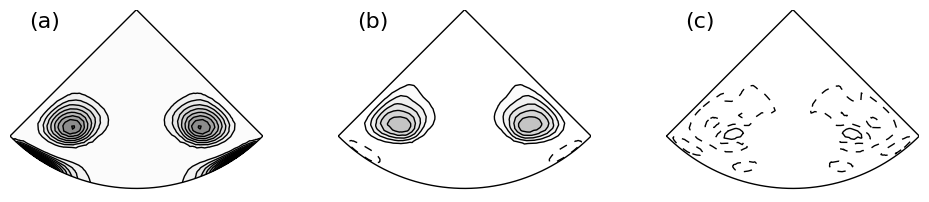
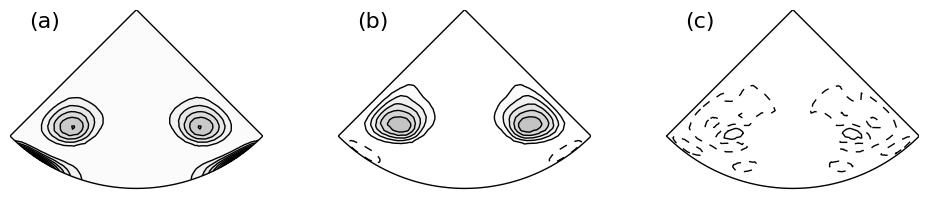
pipeTW seq added to ch4

Changed region(s): [[0.0, 0.4455, 0.1249, 0.8911], [0.1561, 0.4455, 0.2809, 0.8911]]

diff --git a/ch4_other.tex b/ch4_other.tex
@@ -151,16 +151,66 @@ Je = \pd{F}{x} e = \pd{F}{e}.
 
 \section{Семейство трехмерных бегущих волн в течении Гагена-Пуазейля}
 
-Решение уравнений Навье-Стокса, соответствующее модельном порыву, является предельным состоянием решения, эволюционирующего на сепаратрисе, отделяющей области притяжения решений, соответствующих ламинарному и турбулентному режимам течения. В разделе \ref{pipe_tw_seq} показано, что при тех же условиях и дополнительном условии $5R$ периодичности вдоль потока предельное решение на сепаратрисе имеет еще более простую динамику, а именно, имеет вид трехмерной бегущей волны. 
-
+Решение уравнений Навье-Стокса, соответствующее модельном порыву, является предельным состоянием решения, эволюционирующего на сепаратрисе, отделяющей области притяжения решений, соответствующих ламинарному и турбулентному режимам течения. При дополнительном условии $5R$ периодичности вдоль потока предельное решение на сепаратрисе имеет еще более простое предельное поведение, а именно, имеет вид бегущей волны. Как показано в разделе \ref{pipe_tw_seq}, это решение в более простой форме воспроизводит все основные элементы цикла поддержания колебаний, выделенные при изучении модельного порыва. Среднее поле скорости бегущей волны не зависит от продольной координаты, благодаря чему полосы повышенной и пониженной скорости и продольные вихри в бегущей волне имеют бесконечную протяженность, в то время как в модельном порыве их протяженность ограничена. 
 
 \begin{figure}
 \center{\includegraphics[width=0.9\linewidth]{pipeTW-contin.png}}
-\caption{ПРодолжнеие} 
+\caption{Продолжение решения уравнений Навье-Стокса, имеющего вид бегущей волны, по числу Рейнольдса: (а) зависимость фазовой скорости и (b) амплитуды трехмерной составляющей движения от числа Рейнольдса. Точка соответствует исходному решению, найденному на сепаратрисе.} 
 \label{pipeTW_contin_pic}
 \end{figure}
 
+Продолжение по числу Рейнольдса решения, имеющего вид бегущей волны, найденного на сепаратрисе, позволило получить новые решения в виде бегущей волны. На рис. \ref{pipeTW_contin_pic} приведены значения фазовой скорости $c_\mathrm{tw}$ и средней по объему трубы амплитуды трехмерной составляющей движения $\V_\mathrm{3D} = \v - \overline{\v}^{x,\theta}$. Как и условно периодические решения, порожденные модельным порывом, решений в виде бегущей волны принадлежат однопараметрическому множеству. Семейство решений, порожденное бегущей волной, найденной на сепаратрисе, возникает в результате бифуркации при $\Re \approx 1200$. При меньших числах Рейнольдса решений из этого семейства не существует. При больших числах Рейнольдса существует две ветви решений. В точке бифуркации производная по числу Рейнольдса от характеристик решения обращается в бесконечность, что не позволяет перейти с одной ветви решения на другую, продлевая решение по числу Рейнольдса. Для того, чтобы перейти с одной ветви решения на другу, вблизи от точки бифуркации продолжение решения было выполнено по фазовой скорости $c_\mathrm{tw}$. Число Рейнольдса, при этом, было включено в число определяемых параметров. Ветвь, которой принадлежит исходное решение, найденное на сепаратрисе, принято называть нижней, так как для нее характерна меньшая интенсивность колебаний (см. рис. \ref{pipeTW_contin_pic}(b)). Решения с верхней ветви по амплитуде колебаний оказываются ближе к турбулентному течения, что делает их привлекательными для исследования. 
 
+\begin{figure}
+\center{\includegraphics[width=1\linewidth]{pipeTW-1700ub-means.png}}
+\center{\includegraphics[width=1\linewidth]{pipeTW-1700ub-puls.png}}
+\caption{Поле скорости решения, имеющего вид бегущей волны, принадлежащего верней ветви, $\Re = 1700$: (a) --- изолинии средней продольной скорости, (b) --- средняя поперечная скорость, (c) --- линии уровня амплитуды пульсаций, (d) --- изолинии продольной компоненты пульсационной составляющей движения в сечении $\theta = 0$ (продольный период $L_x = 5$). Сплошные линии --- положительные значения, прерывистые -- отрицательным. } 
+\label{pipeTWub_means_pic}
+\end{figure}
+
+Исходная сетка, на которой были найдены решения, содержит $32 \times 32 \times 32$ ячеек в продольном, радиальном и угловом направлениях. Протяженность расчетной области составляет $L_x = 5R$. Для того, чтобы установить влияние расчетной сетки на результат, решения были пересчитаны на более подробной сетке, содержащей вдвое большее число ячеек в каждом направлении ($64 \times 64 \times 64$). В радиальном направлении введено растяжение сетки таким образом, что высота ячейки вблизи сетки в 4 раза меньше, чем вблизи оси трубы. Таким образом, разрешение сеток, на которых получены решения в виде бегущих волн, точно совпадает с разрешением сток, на которых получен модельный порыв (см. раздел \ref{edge_seq}). Для адекватного воспроизведения решений с верхней ветви требуются более подробные расчетные сетки, чем для решений с нижней ветви. Расчеты, проведенные на двух расчетных сетках, показали, что до $\Re \approx 2000$ решение на верхней ветви воспроизводится адекватно. Также, как при исследовании верхней ветви семейства решений, порожденного модельным порывом, характеристики верхней ветви решений, имеющих вид бегущей волны, будут представлены на примере решения с $\Re = 1700$. Это решение оказывается устойчивым (при наложенных дополнительных условиях симметрии \eqref{sym_eq}, \eqref{per_eq}, \eqref{bc2_eq}). Его фазовая скорость равна $c_\mathrm{tw,ub} = 0.66U$, где $U$ --- удвоенная расходная скорость, совпадающая с максимальной скоростью в течения Пуазейля с аналогичным расходом. 
+
+\begin{figure}
+\center{\includegraphics[width=0.33\linewidth]{pipeTW-1700ub-lin-map.png} \includegraphics[width=0.6\linewidth]{pipeTW-1700ub-lin-puls.png}}
+\caption{Наиболее быстро растущее собственное решение линейной задачи устойчивости поля скорости $\V_\mathrm{tw,ub}$: (a) --- линии уровня амплитуды колебаний; (b) --- изолинии продольной компоненты скорости в сечении $\theta = 0$. Сплошные линии --- положительные значения, прерывистые --- отрицательные.}
+\label{pipeTWub_lin_pic}
+\end{figure}
+
+Также, как при анализе бегущей волны, найденной на сепаратрисе, выполненном в разделе \ref{pipe_tw_seq}, разделим поле скорости выбранной для анализа бегущей волны $\v_\mathrm{tw,ub}$ на среднюю $\V_\mathrm{tw,ub} = \overline{\v_\mathrm{tw,ub}}^x$ и пульсационную $\v'_\mathrm{tw,ub} = \v_\mathrm{tw,ub} - \V_\mathrm{tw,ub}$ составляющие путем осреднения в продольном направлении $x$, обозначенного чертой над выражением с соответствующим индексом.  Для бегущей волны осреднение в продольном направлении эквивалентно осреднению по времени (при условии, что оно выполнено в системе отсчета, скорость перемещения которой не совпадает с фазовой скоростью волны). Среднее поле скорости зависит только от двух координат, $r$ и $\theta$, что делает его удобным объектом для исследования. 
+
+Также, как и в других исследованных решениях, среднее поле скорости включает полосы повышенной и пониженной скорости, вытянутые вдоль потока. Распределение средней продольной скорости приведено на рис. \eqref{pipeTWub_means_pic}(а). В центральной части трубы, где медленная жидкость проникает ближе к центру трубы, находится полоса пониженной скорости. При большем и меньшем значении $\theta$ находятся полосы повышенной скорости. Отметим, что скорости жидкости в области расположения полос повышенной скорости оказывается даже выше, чем на оси трубы. Существование поло поддерживает слабое движение жидкости в нормальной к основному потоку плоскости. Распределение средней поперечной скорости, приведенное на рис. \ref{pipeTWub_means_pic}(b), соответствует наличию продольных вихрей, поддерживающих существование полос. Там, где медленная жидкость движется от стенки, находятся полосы пониженной скорости. Там, где жидкость движется ближе к стенке --- полосы повышенной скорости. 
+
+\begin{figure}
+\center{\includegraphics[width=1\linewidth]{pipeTW-1700ub-OXgen.png}}
+\caption{Образование продольных вихрей в решении, имеющем вид бегущей волны, принадлежащем верхней ветви, $\Re = 1700$: значение $\Omega_x^2$ (a), вклад в генерацию $\Omega_x^2$ со стороны слагаемых, соответствующих \eqref{OXgen_terms}, (b) и другим слагаемым в правой части \eqref{OX_eq} (с). Сплошные линии --- положительные значения, прерывистые --- отрицательные.}
+\label{pipeTWub_OXgen_pic}
+\end{figure}
+
+Пульсации оказываются сосредоточены между полосами повышенной и пониженной скорости и, в несколько меньшей степени, в области расположения полос повышенной скорости (см. рис. \ref{pipeTWub_means_pic}(c)). Отметим, что распределения средней скорости и пульсаций в этом случае значительно отличаются от аналогичных распределений для решения с верхней ветви семейства решений, порожденного модельным порывом (см. рис. \ref{local_ub_means_pic}). В решении, порожденном модельным порывом, скорость на оси трубы оказывается выше, чем в полосах повышенной скорости, пульсации достигают максимума между полосами повышенной скорости и осью трубы, интенсивность пульсаций между полосами разных знаков оказывается значительно ниже. По-видимому, это объясняется наличием продольной неоднородность в пространственно-локализованном решении. Мы полагаем, что механизм образования пульсаций в случае рассматриваемой бегущей волны также, как и в других случаях, является линейным. Хотя среднее поле скорости $\V_\mathrm{tw,ub}$ оказывается линейно устойчивым, собственная функция, соответствующая наиболее медленно затухающему собственному решению, $\v'_1$ повторяет форму пульсационной составляющей движения и скорость ее перемещения вдоль трубы. Амплитуда колебаний $\v'_1$ приведена на рис. \ref{pipeTWub_lin_pic}(a). Как и в пульсационной составляющей движения, колебания $\v'_1$ оказываются сосредоточены между полосами повышенной и пониженной скорости, а также, от части, в области расположения полос повышенной скорости. Распределения мгновенной продольной скорости, приведенные для пульсационной составляющей движения $\v'_\mathrm{tw,ub}$ на рис. \ref{pipeTWub_means_pic}(d), а для $\v'_1$ на рис. \ref{pipeTWub_lin_pic}(b), также согласуются друг с другом. Фазовая скорость $\v'_1$ равна $c_1 = 0.63U$, декремент затухания $\lambda_1 = -0.0085U/R$. Линейная устойчивость среднего течения не противоречит тому, что механизм передачи энергии в пульсационную составляющую движения является линейный. Амплитуда колебаний в рассматриваемом решении оказывается достаточно велика и достигает $0.15U$. Полосы повышенной и пониженной скорости в решении смещаются в боковом направлении с достаточно существенной амплитудой, в результате чего среднее течение недостаточно точно воспроизводит форму полос --- угловые градиенты продольной скорости в среднем течении оказываются ниже, чем в неосредненном поле скорости $\v_\mathrm{tw,ub}$, и скорость роста возмущений на среднем поле скорости может оказаться ниже, чем на неосредненном.
+
+\begin{figure}
+\center{\includegraphics[width=0.5\linewidth]{pipeTW-1700ub-corrA.png}\includegraphics[width=0.5\linewidth]{pipeTW-1700ub-corrB.png}}
+\caption{Значения $\d v_x' /\d x$ (кривая 1) и $\omega_x'$ (кривая 2) на прямой, где $\Omega_x$ достигает максимума, $r = 0.75, \theta = \pi/10$: (a) --- для пульсаций, полученных в линейном приближении; (b) --- для пульсационной составляющей движения. }
+\label{pipeTWub_corr_pic}
+\end{figure}
+
+Существование продольных вихрей, формирующих полосы повышенной и пониженной скорости, объясняется наличием пульсаций. Продольным вихрям, имеющих различные направления вращения, соответствуют области концентрации положительной и отрицательной средней продольной завихренности $\Omega_x$, $(\Omega_x, \Omega_r, \Omega_\theta) = \mathrm{rot} \V_\mathrm{tw,ub}$. Как и в других исследованных решениях, в рассматриваемом решении в уравнении баланса средней продольной завихренности \eqref{OX1_eq} за образование продольных вихрей ответственны слагаемые \eqref{OXgen_terms}, описывающие нелинейное взаимодействие пульсаций продольной скорости и пульсаций продольной завихренности. Работать удобнее с уравнением баланса квадрата средней продольной завихренности $\Omega_x^2$, получаемым умножением уравнения \eqref{OX1_eq} на $2\Omega_x$. Положительное значение источниковых членов в этом уравнении говорит об их положительном вкладе, а отрицательное значение --- об отрицательном. Значение слагаемых \eqref{OXgen_terms}, умноженных на $2\Omega_x$, приведено на рис. \ref{pipeTWub_OXgen_pic}(b). Значение суммы других слагаемых в правой части \eqref{OX1_eq}, умноженных на $2\Omega_x$, приведено на рис. \ref{pipeTWub_OXgen_pic}(c). Слагаемые \eqref{OXgen_terms} определяет форму поля $\Omega_x$ в области расположения продольных вихрей (см. рис. \ref{pipeTWub_OXgen_pic}(a)), другие источниковые слагаемые дают преимущественно отрицательный вклад в подержание продольной завихренности и по амплитуде значительно уступает выделенному слагаемому. Таким образом, нет сомнений, что и в этом случае за образование продольных вихрей отвечают слагаемые \eqref{OXgen_terms}. 
+
+\begin{figure}[h]
+\center{\includegraphics[width=0.66\linewidth]{pipeTW-1700ub-ox1gen.png}}
+\caption{Образование пульсаций продольной завихренности в решении, имеющем вид бегущей волны, принадлежащем верхней ветви, $\Re = 1700$: средний квадрат пульсаций продольной завихренности $\overline{\omega'_x \omega'_x }^x$ (а), вклад в производство $\overline{\omega'_x \omega'_x }^x$ слагаемых, соответствующих \eqref{ox1gen_add_terms}, (b), слагаемого, соответствующего \eqref{ox1gen_main_terms}, (c) и слагаемого, соответствующего сумме остальных слагаемых в правой части \eqref{ox2_eq} (d). Сплошные линии --- положительные значения, прерывистые --- отрицательные.}
+\label{pipeTWub_ox1gen_pic}
+\end{figure}
+
+Пульсации, полученные в рамках линеаризованных уравнений, $\v_1$ также воспроизводят описанный механизм образования продольных вихрей, но имеют более простую форму (их поле скорости меняется вдоль трубы по гармоническому закону), что делает их привлекательным объектом для анализа. Между собой слагаемые \eqref{OXgen_terms} оказываются равны в силу периодичности поля скорости вдоль потока, поэтому мы ограничимся анализом второго из слагаемых. Отличие от нуля этого слагаемого говорит о наличие корреляции между пульсациями продольной скорости и пульсациями продольной завихренности, причем эта корреляция такова, что в области расположения положительного вихря $\omega'_x$ и ${\partial v'_x}/{\partial x}$ имеют положительную корреляцию, а в области расположения отрицательного вихря --- отрицательную, что позволяет поддерживать существование этих вихрей. Для того, чтобы продемонстрировать наличие корреляции, на рис. \ref{pipeTWub_corr_pic} приведено значение $\omega'_x$ и ${\partial v'_x}/{\partial x}$ на прямой, параллельной оси $x$, проходящей через центр положительного вихря ($\Omega_x$ достигает максимума), $r = 0.75, \theta = \pi/10$. На рисунке (a) приведены значения для пульсаций, полученных в рамках линеаризованных уравнений, $\v'_1$. Кривые меняются вдоль потока по гармоническому закону и оказываются в фазе друг с другом, что обеспечивает наибольшую эффективность производства $\Omega_x$. На рисунке (b) приведены аналогичные значения для пульсационной составляющей движения $\v'_\mathrm{tw,ub}$. Хотя графики имеют значительно более сложную форму, чем в линейном случае или в случае аналогичного решения с нижней ветви (см. рис. \ref{OXgen_corr_pic}), они также согласованы друг с другом (кривые достигают наибольшего и наименьшего значения в близких точках). Наличие корреляции объясняется механизмом образования пульсаций продольной завихренности $\omega'_x$, согласующемся в рассматриваемом решении и в других исследованных решениях (см. раздел \ref{ox1gen_seq}). 
+
+В уравнении \eqref{ox2_eq} за образование пульсаций продольной завихренности $\omega'_x$ в области расположения продольных вихрей ответственно слагаемое \eqref{ox1gen_main_terms}, отписывающее эффект сжатия и растяжения существующих в потоке вихревых трубок, вызванного пульсациями продольной скорости. Для того, чтобы продемонстрировать вклад слагаемого \eqref{ox1gen_main_terms} в образование $\omega'_x$, обратимся к уравнению баланса среднего квадрата пульсаций продольной завихренности $\overline{\omega'_x\omega'_x}^x$, полученного умножением \eqref{ox2_eq} на $2\omega'_x$ с последующим определением по $x$. Слагаемые в этом уравнении зависят только от $r$ и $\theta$, положительное значение источниковых членов в этом уравнении говорит об их содействии образованию $\omega'_x$, а отрицательное --- о противодействии. На рис. \ref{pipeTWub_ox1gen_pic} приведено значение $\overline{\omega'_x\omega'_x}$ (a) и вклада в его образование со стороны слагаемых, соответствующих \eqref{ox1gen_add_terms}, (b), слагаемого, соответствующего \eqref{ox1gen_main_terms}, (c) и слагаемых, соответствующих сумме других слагаемых в правой части уравнения \eqref{ox2_eq}. Наибольший вклад в образование $\omega'_x$ дают слагаемые \eqref{ox1gen_add_terms}, отвечающие за поворот нормальных к стенке вихревых нитей на фоне нормального к стенке градиента скорости. Хотя эти слагаемые имеют существенное значение вблизи области расположения продольных вихрей, они не участвуют в поддержании продольных вихрей, так как пульсации, формируемые этими слагаемыми, согласованы с пульсациями продольной скорости таким образом, что их нелинейное взаимодействие отсутствует (см. раздел \ref{ox1gen_seq}). Образование пульсаций $\omega'_x$ в области расположения продольных вихрей связано со слагаемым \eqref{ox1gen_main_terms}. Именно это слагаемое обеспечивает необходимую для поддержания продольных вихрей согласованность между пульсациями продольной скорости и пульсациями продольной завихренности. Другие источниковые слагаемые в области расположения продольных вихрей имеют как положительное, так и отрицательное значение, и существенного влияния на образование $\omega'_x$ в интересующей нас области не оказывают. 
+
+Таким образом, для рассмотренного решения, имеющего вид бегущей волны, принадлежащего верхней ветви, механизм образования колебаний оказывается таким же, как и для других исследованных решений за тем исключением, что среднее поле скорости оказывается линейно устойчивым. Тем не менее, эта особенность решения не говорит о том, что механизм передачи энергии в пульсационную составляющую движения отличается от линейного. 
+
+
+
+\begin{comment}
 Re2200ub:
 lin: cf = 0.44473618074359494, lambda = -0.0085
 vwz: cf = 0.6470799307435949, lambda = -0.021
@@ -169,7 +219,7 @@ Re1700ub:
 lin: cf = 0.633021694959945, lambda = -0.02
 vwz: cf = 0.651179838899339, lambda = -0.028 (unsym)
         Осесимметричное возмущение, lambda = -0.028
-
+\end{comment}
 
 \section{Семейство решений уравнений Навье-Стокса в виде бегущих волн в плоском течении Пуазейля}
 

diff --git a/ch3_oxgen.tex b/ch3_oxgen.tex
@@ -4,11 +4,11 @@
 
 Результаты исследования модельного порыва могут расширить существующие представления о механизме регенерации пристенных структур. В данной главе описан механизм поддержания стационарных продольных вихрей, формирующих полосы в модельном порыве. Также в главе описано решение уравнений Навье-Стокса, имеющее вид бегущей волны, и механизм поддержания продольных вихрей в этом решении. Решение, имеющее вид бегущей волны, периодично вдоль потока и стационарно в сопутствующей системе отсчета. Это решение является предельным состоянием решения, эволюционирующего на сепаратрисе, найденного при тех же условиях симметрии, что и модельный порыв, но в непротяженной расчетной области. Обнаружено, что имея более простое временное поведение, чем модельный порыв, это решение воспроизводит аналогичный механизм самоподдержания. Описание механизма поддержания продольных вихрей на примере решения типа бегущей волны имеет более простой вид и позволяет более строго продемонстрировать особенности движения, обеспечивающие работу этого механизма. 
 
-Основные результаты, представленные в главе, опубликованы в статье автора диссертации \cite{MZG2017, KMU17, KMU16}. 
+Основные результаты, представленные в главе, опубликованы в статье автора диссертации \cite{MZG2017, KMU17}. 
 
 
 
-\section{Получение решения в виде бегущей волны и его свойства}
+\section{Получение решения в виде бегущей волны и его свойства} \label{pipe_tw_seq}
 
 Пульсационная составляющая движения модельного порыва напоминает бегущую волну. Длину этой волны можно оценить в $5$ радиусов трубы $R$. Соответствующее модельному порыву решение уравнений Навье-Стокса является предельным состоянием решения, эволюционирующего на сепаратрисе, отделяющей области притяжения решений, соответствующих ламинарному и турбулентному режимам течения. Модельный порыв найден при $\Re = 2200$ при дополнительных условиях \eqref{sym_eq}, \eqref{per_eq} в достаточно протяженной расчетной области. Обнаружено, что при дополнительном  условии $5R$-периодичности вдоль трубы решение, эволюционирующее на сепаратрисе, имеет более простое предельное поведение. Предельное решение имеет вид бегущей волны --- оно стационарно в сопутствующей системе отсчета. Решение, имеющее вид бегущей волны, повторяет особенности бегущей волны, наблюдаемой в модельном порыве, и воспроизводит общий с модельным порывом механизм самоподдержания. Фазовая скорость найденной бегущей волны $c_{tw} = 0.77U$ (<<tw>> --- <<traveling wave>>) и близка к фазовой скорости бегущей волны в модельном порыве. Метод поиска решения на сепаратрисе описан в разделе \ref{edge_seq}. 
 
@@ -100,7 +100,7 @@
 Сумма \eqref{OXgen_iterms_sum} не зависит от $x$, что, в частности, позволяет упустить знак осреднения вдоль трубы. Эффективность производства  $\Omega_x$ определяется разностью фаз $\psi - \phi$. В области положительного вихря, при $a,b > 0$, наибольшее значение как первого, так и второго слагаемого достигается при $\psi - \phi = \pi/2$. В этом случае $\d \omega'_x/\d x$ и $v'_x$ положительно коррелированы, в то время как $\d v'_x/\d x$ и $\omega'_x$ --- отрицательно. В области отрицательного вихря ситуация меняется на противоположную. Расчет соответствующих коэффициентов корреляции показывает, что они близки к $\pm1$ в соответствующих областях. В качестве подтверждения на рисунке \ref{OXgen_corr_pic}(a) представлены значения $\d v'_x/\d x$ и $\omega'_x$ на прямой, проходящей через область, занятую положительным вихрем, $r = 0.5, \theta = \pi/8$. Фазы выделенных компонент движения практически совпадают. Указанное свойство сохраняется также для пульсационной составляющей движения $\v'_{tw}$, для которой аналогичные величины изображены на рисунке \ref{OXgen_corr_pic}(b). Объяснить наблюдаемую согласованность фаз позволяет механизм образования пульсаций продольной завихренности, представленный в следующем разделе. 
 
 
-\section{Механизм поддержания пульсаций продольной завихренности на примере решения в виде бегущей волны}
+\section{Механизм поддержания пульсаций продольной завихренности на примере решения в виде бегущей волны} \label{ox1gen_seq}
 
 Объяснить согласованность фаз между пульсациями продольной скорости и завихренности, необходимой для работы механизма образования продольных вихрей, позволяет анализ уравнения эволюции $\omega'_x$, полученного вычитанием \eqref{OX_eq} из \eqref{ox_eq}:
 \begin{multline}\label{ox1_eq}
@@ -127,7 +127,7 @@
 
 \begin{figure}
 \center{\includegraphics[width=0.66\linewidth]{pipetw_ox1gen.png}}
-\caption{Распределение по сечению трубы среднего квадрата пульсаций продольной завихренности $\overline{\omega'_x \omega'_x }^x$ (а) и вклад в его производство со стороны слагаемых \eqref{ox1gen_add_terms} (b), слагаемого \eqref{ox1gen_main_terms} (c) и суммы остальных слагаемых в правой части \eqref{ox1_eq} (d). Сплошные линии --- положительные значения, прерывистые --- отрицательные.}
+\caption{Распределение по сечению трубы среднего квадрата пульсаций продольной завихренности $\overline{\omega'_x \omega'_x }^x$ (а) и вклад в его производство со стороны слагаемых \eqref{ox1gen_add_terms} (b), слагаемого \eqref{ox1gen_main_terms} (c) и суммы остальных слагаемых в правой части \eqref{ox2_eq} (d). Сплошные линии --- положительные значения, прерывистые --- отрицательные.}
 \label{ox1gen_pic}
 \end{figure}
 
@@ -159,7 +159,7 @@
 Описанный механизм генерации пульсаций продольной завихренности объясняет необходимость учета поперечного движения при исследовании устойчивости стационарного течения. Пренебрежение связанной с поперечным движением $\Omega_x$ делает невозможным генерацию $\omega'_x$ в форме, необходимой для сохранения поперечного движения, а следовательно и всего процесса самоподдержания пульсаций.
 
 
-\section{Механизм поддержания продольных вихрей и пульсаций продольной завихренности в модельном порыве}
+\section{Механизм поддержания продольных вихрей и пульсаций продольной завихренности в модельном порыве} \label{edge_oxgen}
 
 В работе выделен механизм поддержания продольных вихрей в модельном порыве. Это механизм аналогичен механизму, поддерживающему продольные вихри в решении, имеющем вид бегущей волны. При изучении решения, имеющего вид бегущей волны, разделение на среднюю и пульсационную составляющие движения выполняется осреднением вдоль трубы. При изучении модельного порыва осреднение выполняется по времени в сопутствующей системе отсчета. Пусть $\V_{mp} = (V_x, V_r, V_\theta) = \overline{\v_{mp}}^t$ и $\v'_{mp} = (v'_x, v'_r, v'_\theta) = (\v_{mp} - \V_{mp}$) --- средняя и пульсационная составляющие поля скорости модельного порыва $\v_{mp} = (v_x, v_r, v_\theta)$, а $\Om_{mp} = (\Omega_x, \Omega_r, \Omega_\theta) = \rot \V_{mp}$ и $\om'_{mp} = (\omega'_x, \omega'_r, \omega'_\theta) = \rot \v'_{mp}$ --- средняя и пульсационная составляющие поля завихренности $\om_{mp} = (\omega_x, \omega_r, \omega_\theta) = \rot \v_{mp}$ (<<mp>> --- <<model puff>>). 
 
